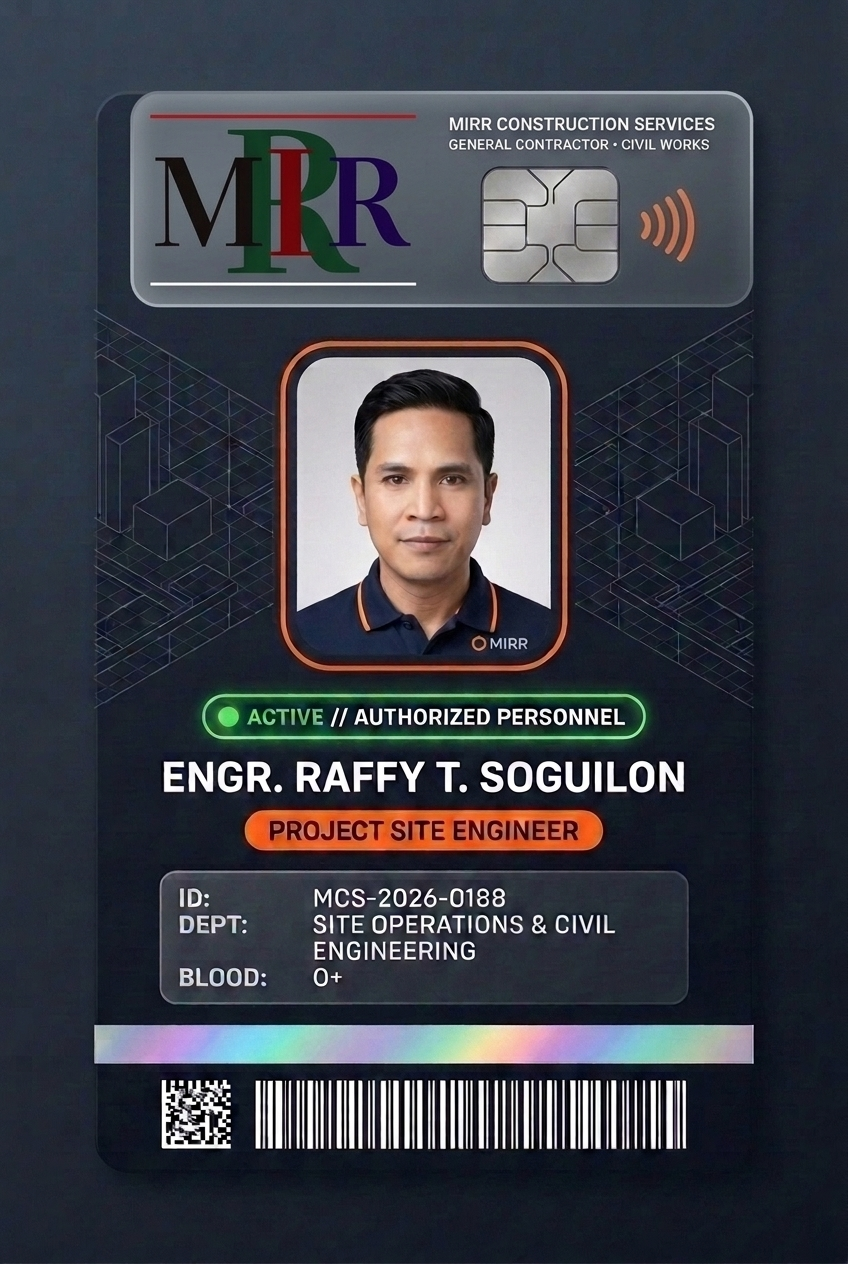
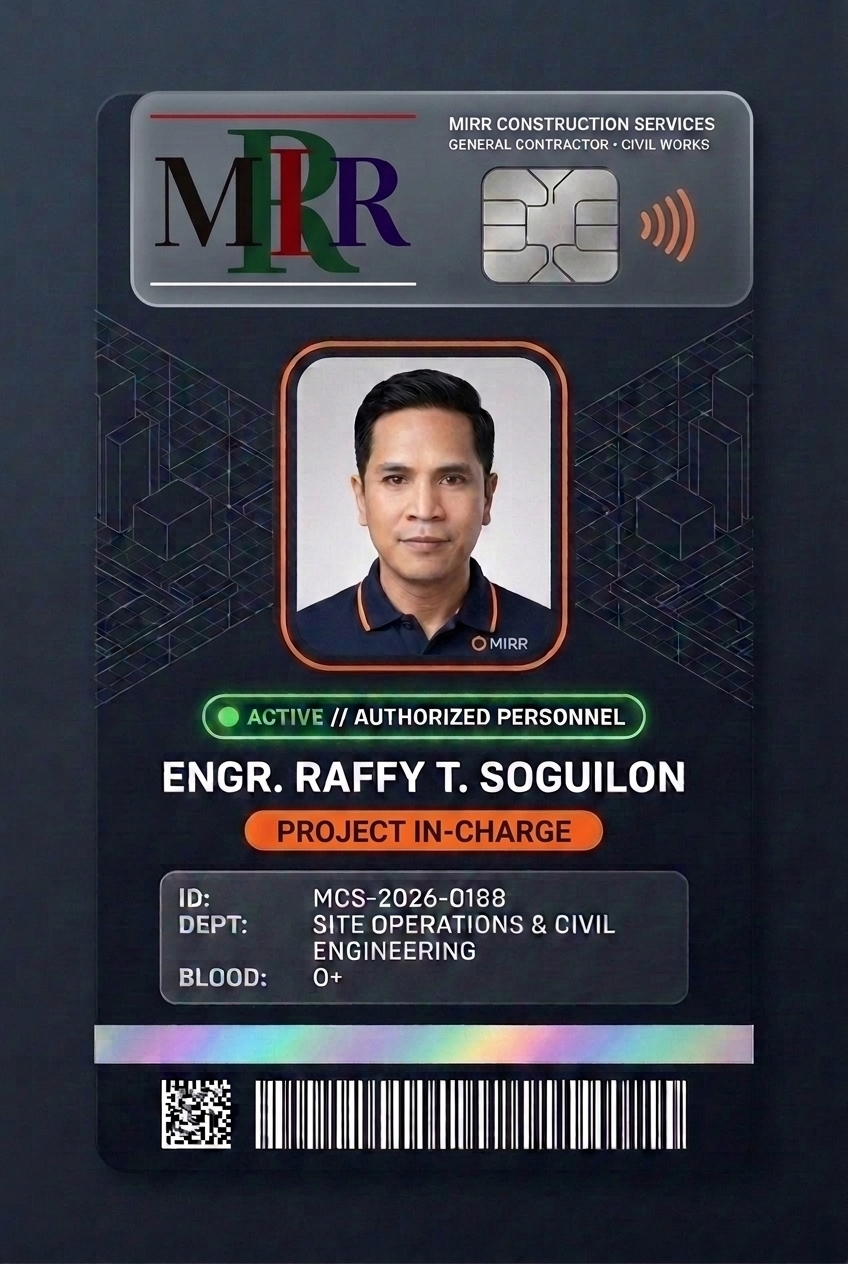
Update job title to Project In-Charge across MIRR ID badges and documentation

Changed region(s): [[0.3066, 0.6479, 0.7052, 0.6788], [0.2146, 0.8639, 0.2453, 0.8948]]

diff --git a/Printable_ID_Photos_Sheet.html b/Printable_ID_Photos_Sheet.html
@@ -317,7 +317,7 @@
     <div class="sheet-header">
       <div>
         <div class="sheet-title">ENGR. RAFFY T. SOGUILON</div>
-        <div class="sheet-subtitle">Professional ID Photo Package • Project Site Engineer • MIRR Construction Services</div>
+        <div class="sheet-subtitle">Professional ID Photo Package • Project In-Charge • MIRR Construction Services</div>
       </div>
       <div style="text-align: right; font-size: 8px; color: #64748b;">
         Print Scale: <strong>100% (Actual Size)</strong><br>

diff --git a/MIRR_Employee_ID_Card.html b/MIRR_Employee_ID_Card.html
@@ -844,7 +844,7 @@
           <div class="employee-meta">
             <div class="access-pill">Active // Site Clearance</div>
             <div class="emp-name-modern" contenteditable="true">ENGR. RAFFY T. SOGUILON</div>
-            <div class="emp-role-badge" contenteditable="true">PROJECT SITE ENGINEER</div>
+            <div class="emp-role-badge" contenteditable="true">PROJECT IN-CHARGE</div>
             <div class="emp-division" contenteditable="true">Site Operations &amp; Civil Engineering</div>
           </div>
 

diff --git a/README.md b/README.md
@@ -19,7 +19,7 @@ Collection of architectural 3D models, 3D floor plans, business systems, enginee
 
 - **Official Company Logo:** [`MIRR_Official_Logo.jpg`](MIRR_Official_Logo.jpg) — Official corporate interlocking serif monogram (Red accent line, Black M, Green R, Crimson I, Indigo R).
 - **Printable & Editable Web Template:** [`MIRR_Employee_ID_Card.html`](MIRR_Employee_ID_Card.html) — Ultra-modern dark obsidian aesthetic with official MIRR logo, biometric badge indicators, standard CR80 dimensions (54mm × 85.6mm), and true-scale print styling (`Ctrl + P`).
-- **Modern Front Badge Graphic:** [`MIRR_Modern_ID_Front.jpg`](MIRR_Modern_ID_Front.jpg) / [`MIRR_Employee_ID_Front.jpg`](MIRR_Employee_ID_Front.jpg) — High-tech vertical badge featuring the official MIRR logo, Engr. Raffy T. Soguilon (Project Site Engineer) with fitted company polo and side-part haircut, smart chip pad, RFID contactless indicator, holographic seal, and 2D matrix barcode.
+- **Modern Front Badge Graphic:** [`MIRR_Modern_ID_Front.jpg`](MIRR_Modern_ID_Front.jpg) / [`MIRR_Employee_ID_Front.jpg`](MIRR_Employee_ID_Front.jpg) — High-tech vertical badge featuring the official MIRR logo, Engr. Raffy T. Soguilon (Project In-Charge) with fitted company polo and side-part haircut, smart chip pad, RFID contactless indicator, holographic seal, and 2D matrix barcode.
 - **Modern Back Badge Graphic:** [`MIRR_Modern_ID_Back.jpg`](MIRR_Modern_ID_Back.jpg) / [`MIRR_Employee_ID_Back.jpg`](MIRR_Employee_ID_Back.jpg) — Official logo watermark, edge-to-edge magnetic stripe, frosted glass policy cards, ICE emergency dispatch, and digital site verification QR code.
 - **Executive Desk Presentation Mockup:** [`MIRR_Employee_ID_Presentation.jpg`](MIRR_Employee_ID_Presentation.jpg) — Commercial desk presentation featuring the badge with branded lanyard.
 
